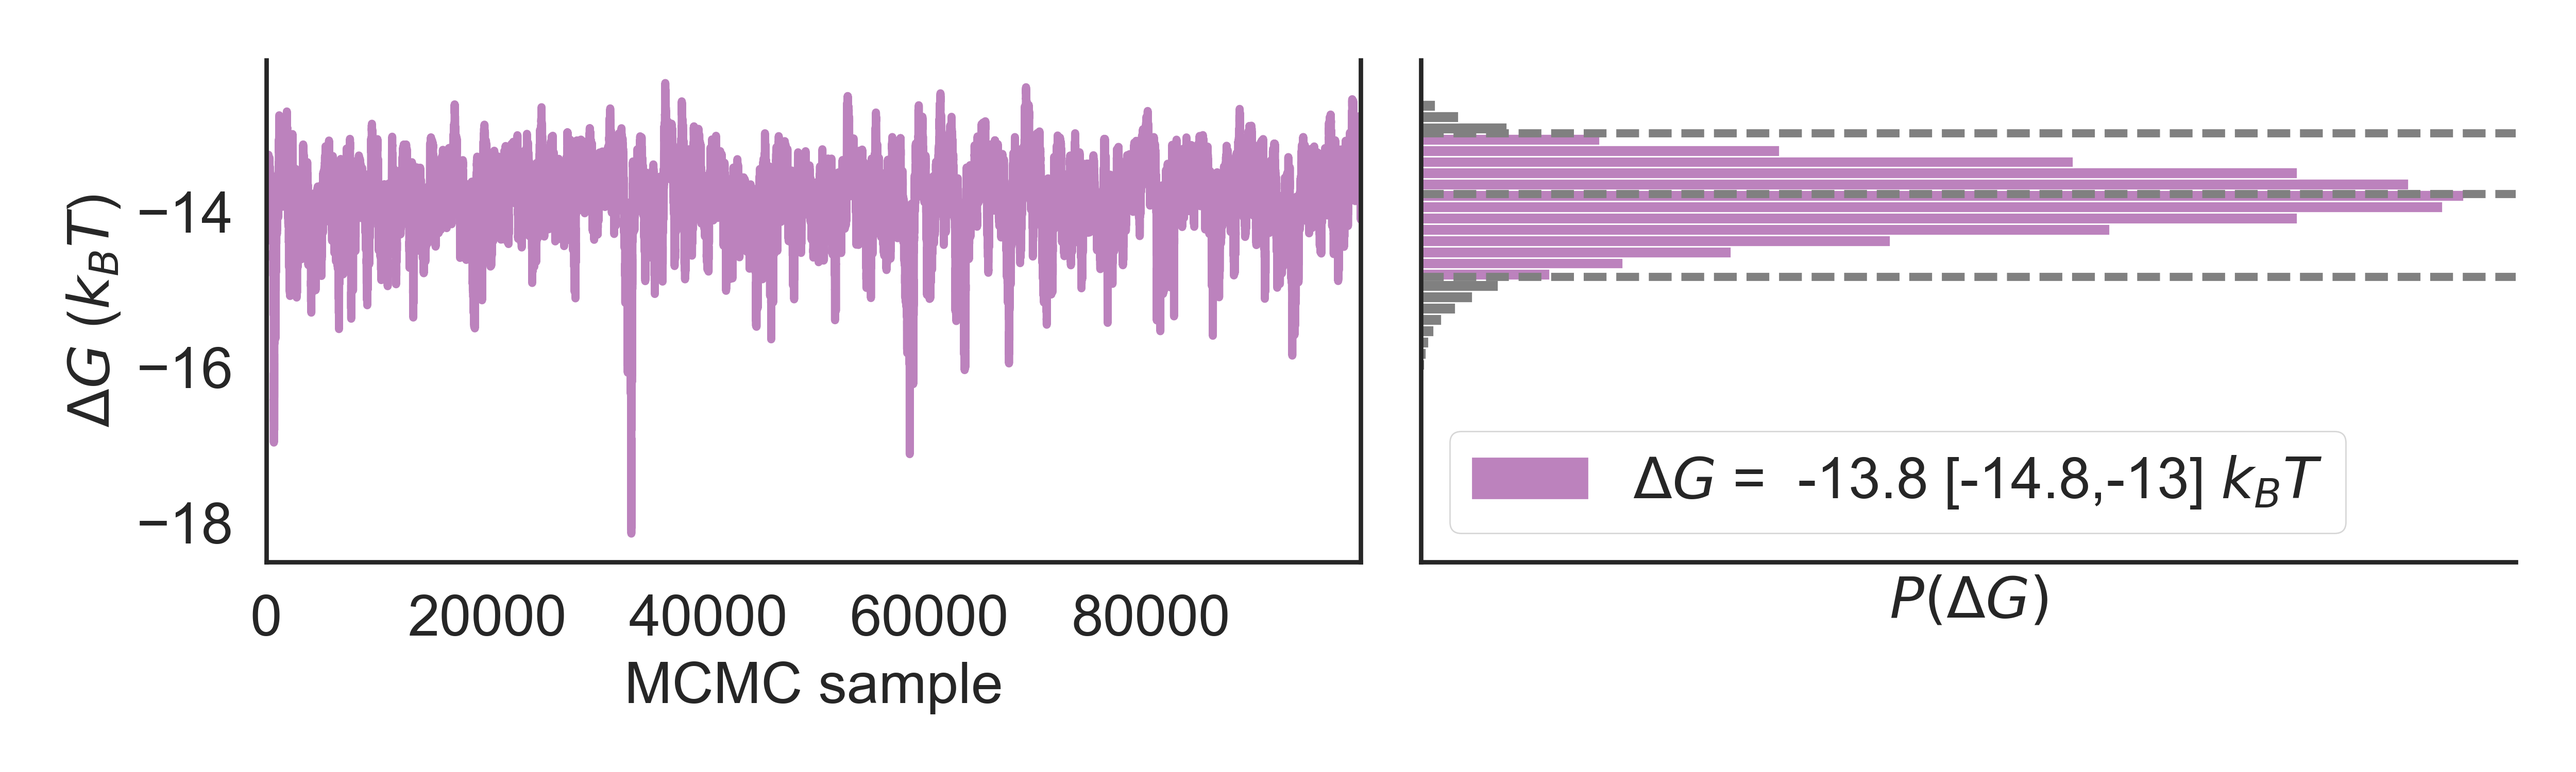
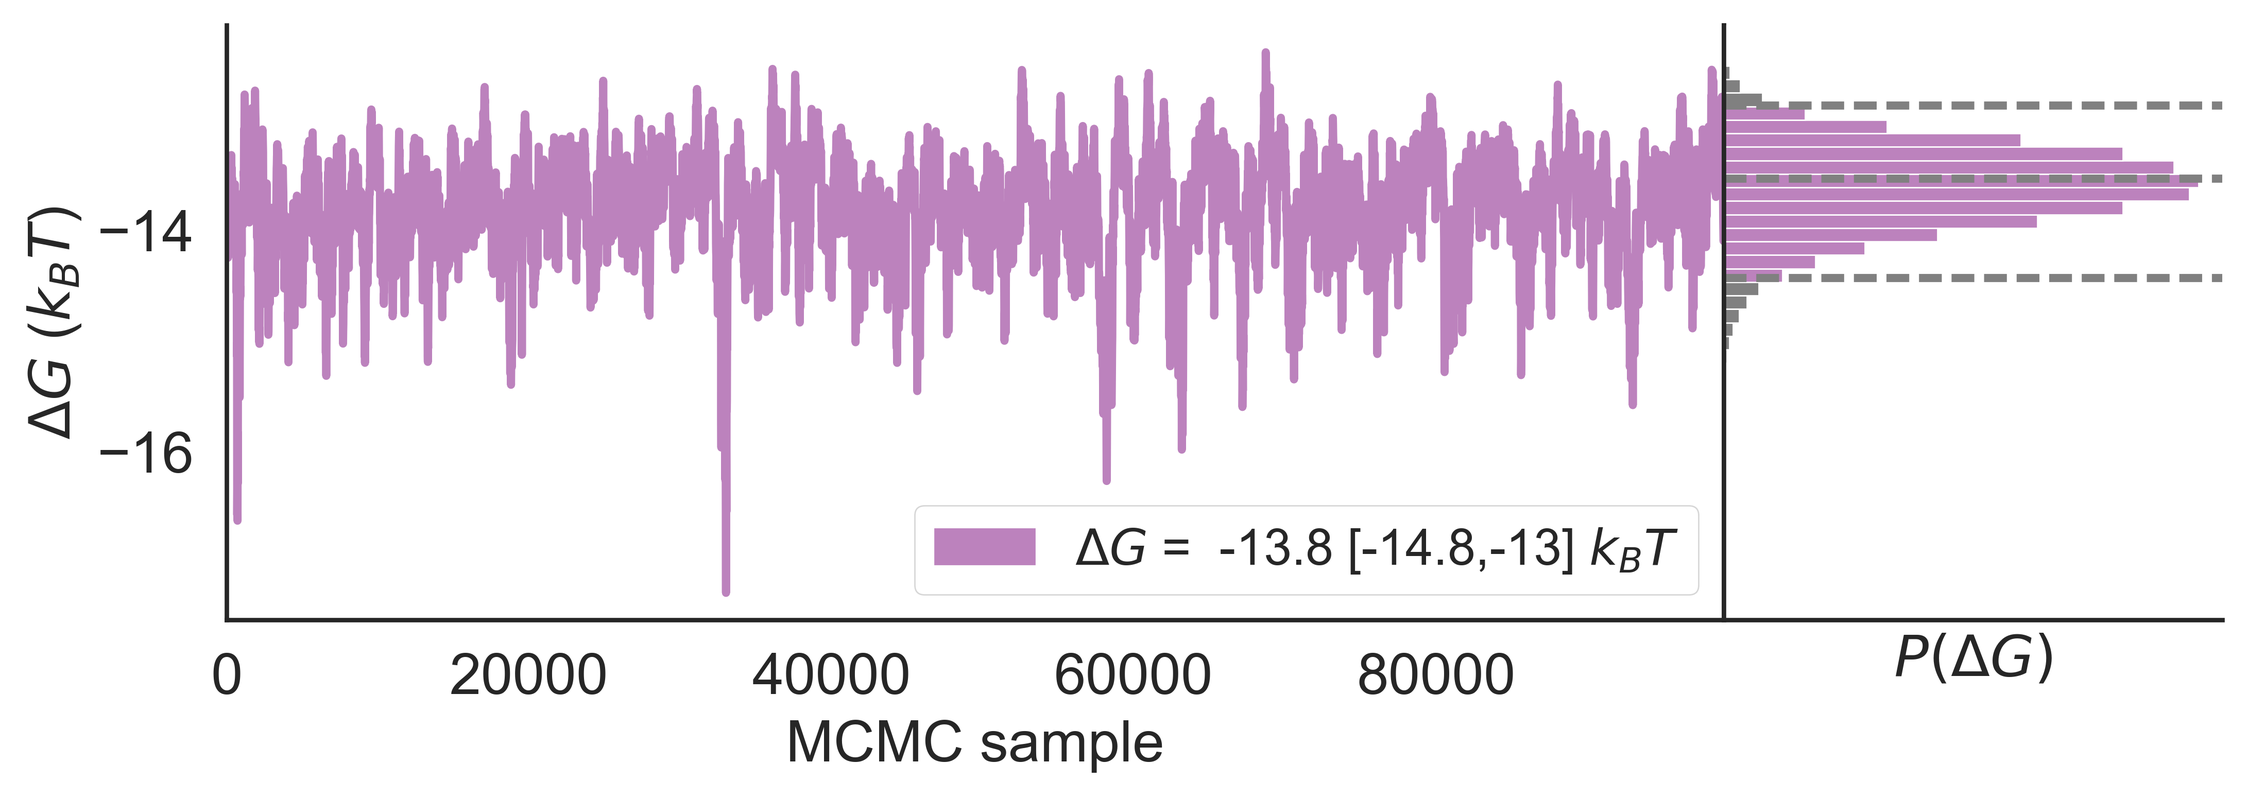
some updates to analyze figures

Changed region(s): [[0.0, 0.0613, 0.997, 0.9507]]

diff --git a/figures/Figure2/generate_analyze_figures.py b/figures/Figure2/generate_analyze_figures.py
@@ -57,12 +57,17 @@ with open(r'%s'%data_file,'rb') as my_file:
 
 fig, ax = plt.subplots(figsize=(5,3))
 
-for top_complex_fluorescence_model in data['top_complex_fluorescence_model'][0][::50]:
+for top_complex_fluorescence_model in data['top_complex_fluorescence_model'][0][::100]:
     plt.semilogx(inputs['Lstated'], top_complex_fluorescence_model, marker='.',color='silver')
-for top_ligand_fluorescence_model in data['top_ligand_fluorescence_model'][0][::50]:
+for top_ligand_fluorescence_model in data['top_ligand_fluorescence_model'][0][::100]:
     plt.semilogx(inputs['Lstated'], top_ligand_fluorescence_model, marker='.',color='lightcoral', alpha=0.2)
-plt.semilogx(inputs['Lstated'], complex_fluorescence['Src-Bosutinib Isomer-CD'], 'ko',label='complex')
-plt.semilogx(inputs['Lstated'], ligand_fluorescence['Src-Bosutinib Isomer-CD'], marker='o',color='firebrick',linestyle='None',label='ligand')
+plt.semilogx(inputs['Lstated'], complex_fluorescence['Src-Bosutinib Isomer-CD'], 'ko',label='protein+ligand')
+plt.semilogx(inputs['Lstated'], data['top_complex_fluorescence_model'][0][0], marker='.',color='silver',label='model fit')
+plt.semilogx(inputs['Lstated'], ligand_fluorescence['Src-Bosutinib Isomer-CD'], marker='o',color='firebrick',linestyle='None',label='buffer+ligand')
+plt.semilogx(inputs['Lstated'], data['top_ligand_fluorescence_model'][0][0], marker='.',color='lightcoral', alpha=0.2, label='model fit')
+#These two lines are a repeat of the above to get the data points above the fit points, but still keep the legend in the right order.
+plt.semilogx(inputs['Lstated'], complex_fluorescence['Src-Bosutinib Isomer-CD'], 'ko')
+plt.semilogx(inputs['Lstated'], ligand_fluorescence['Src-Bosutinib Isomer-CD'], marker='o',color='firebrick',linestyle='None')
 
 plt.xticks(fontsize=15)
 plt.yticks([])
@@ -103,31 +108,92 @@ hist_legend = mpatches.Patch(color=(0.7372549019607844, 0.5098039215686274, 0.74
     %(interval[1],interval[0],interval[2]) )
     
 f, (ax1, ax2) = plt.subplots(1,2, sharey=True,figsize=(10,3))
+from matplotlib import gridspec
+gs = gridspec.GridSpec(1, 2, width_ratios=[3, 1]) 
 
-ax1.plot(data['DeltaG'][0],color=(0.7372549019607844, 0.5098039215686274, 0.7411764705882353))
+ax1 = plt.subplot(gs[0])
+ax1.plot(range(0,len(data['DeltaG'][0]),10),data['DeltaG'][0][::10],color=(0.7372549019607844, 0.5098039215686274, 0.7411764705882353))
 ax1.set_xlabel('MCMC sample',fontsize=16);
 ax1.set_ylabel('$\Delta G$ ($k_B T$)',fontsize=16);
+ax1.legend(handles=[hist_legend],fontsize=14,loc=4,frameon=True)
 ax1.tick_params(labelsize=16)
 ax1.set_xlim(0,99000)
 
 ax1.spines['top'].set_visible(False)
 
 f.subplots_adjust(wspace=0)
+
+ax2 = plt.subplot(gs[1])
 ax2.barh(bin_edges[:-1],hist,binwidth,color=clrs, edgecolor = "white");
 ax2.axhline(y=interval[0],color=(0.5,0.5,0.5),linestyle='--')
 ax2.axhline(y=interval[1],color=(0.5,0.5,0.5),linestyle='--')
 ax2.axhline(y=interval[2],color=(0.5,0.5,0.5),linestyle='--')
-ax2.legend(handles=[hist_legend],fontsize=16,loc=0,frameon=True)
 ax2.set_xlabel('$P(\Delta G)$',fontsize=16);
 plt.xticks([])
+plt.yticks([])
 
 ax2.spines['top'].set_visible(False)
 ax2.spines['right'].set_visible(False)
 
-plt.tight_layout()
+plt.savefig('DeltaG_trace_hist.png', dpi=500, bbox_inches='tight')
+plt.savefig('DeltaG_trace_hist.pdf', bbox_inches='tight')
 
-plt.savefig('DeltaG_trace_hist.png', dpi=500)
-plt.savefig('DeltaG_trace_hist..pdf')
+#Let's make the same plot, but in units of Kd
+
+interval_Kd = np.percentile(a=np.exp(data['DeltaG'][0]), q=[2.5, 50.0, 97.5])
+kd_binBoundaries = np.exp(np.arange(-18,-10,0.15))
+
+hist_legend = mpatches.Patch(color=(0.7372549019607844, 0.5098039215686274, 0.7411764705882353),
+    label = '$K_{d}$ = %.1f [%.1f,%.1f] uM'
+    %(interval_Kd[1]/1e-6,interval_Kd[0]/1e-6,interval_Kd[2]/1e-6) )
+
+f, (ax1, ax2) = plt.subplots(1,2, sharey=True,figsize=(10,3))
+gs = gridspec.GridSpec(1, 2, width_ratios=[3, 1])
+
+ax1 = plt.subplot(gs[0])
+ax1.plot(range(0,len(data['DeltaG'][0]),10),np.exp(data['DeltaG'][0][::10]),color=(0.7372549019607844, 0.5098039215686274, 0.7411764705882353))
+ax1.set_xlabel('MCMC sample',fontsize=16);
+ax1.set_ylabel('$K_{d}$ ($M$)',fontsize=16);
+ax1.legend(handles=[hist_legend],fontsize=14,loc=4,frameon=True)
+ax1.tick_params(labelsize=16)
+ax1.set_xlim(0,99000)
+ax1.set_ylim((1e-8,1e-5))
+plt.yscale('log')
+ax1.spines['top'].set_visible(False)
+
+f.subplots_adjust(wspace=0)
+
+ax2 = plt.subplot(gs[1])
+n, bins, patches = ax2.hist(np.exp(data['DeltaG'][0]),color=(0.7372549019607844, 0.5098039215686274, 0.7411764705882353),bins=kd_binBoundaries, edgecolor='white',orientation="horizontal")
+ax2.axhline(y=interval_Kd[0],color=(0.5,0.5,0.5),linestyle='--')
+ax2.axhline(y=interval_Kd[1],color=(0.5,0.5,0.5),linestyle='--')
+ax2.axhline(y=interval_Kd[2],color=(0.5,0.5,0.5),linestyle='--')
+ax2.set_xlabel('$P(K_{d})$',fontsize=16);
+ax2.set_ylim((1e-8,1e-5))
+plt.yscale('log')
+plt.xticks([])
+plt.yticks([])
+
+#set colors for 95% interval
+clrs = [(0.7372549019607844, 0.5098039215686274, 0.7411764705882353) for xx in bins]
+idxs = bins.argsort()
+idxs = idxs[::-1]
+gray_before = idxs[bins[idxs] < interval_Kd[0]]
+gray_after = idxs[bins[idxs] > interval_Kd[2]]
+for idx in gray_before:
+    clrs[idx] = (.5,.5,.5)
+for idx in gray_after:
+    clrs[idx] = (.5,.5,.5)
+
+for i,p in enumerate(patches):
+    plt.setp(p, 'facecolor', clrs[i+1])
+
+ax2.spines['top'].set_visible(False)
+ax2.spines['right'].set_visible(False)
+
+plt.savefig('Kd_trace_hist.png', dpi=500, bbox_inches='tight')
+plt.savefig('Kd_trace_hist.pdf', bbox_inches='tight')
+
     
 #Finally we want to plot our F_PL and F_L traces
 
@@ -143,10 +209,8 @@ plt.ylabel('$F\_PL$', fontsize=20);
 ax.spines['top'].set_visible(False)
 ax.spines['right'].set_visible(False)
 
-plt.tight_layout()
-
-plt.savefig('F_PL.pdf')
-plt.savefig('F_PL.png',dpi=500)
+plt.savefig('F_PL.pdf', bbox_inches='tight')
+plt.savefig('F_PL.png',dpi=500, bbox_inches='tight')
 
 fig, ax = plt.subplots(figsize=(9,3))
 
@@ -160,7 +224,5 @@ plt.ylabel('$F\_L$', fontsize=20);
 ax.spines['top'].set_visible(False)
 ax.spines['right'].set_visible(False)
 
-plt.tight_layout()
-
-plt.savefig('F_L.pdf')
-plt.savefig('F_L.png',dpi=500)
+plt.savefig('F_L.pdf', bbox_inches='tight')
+plt.savefig('F_L.png',dpi=500, bbox_inches='tight')
